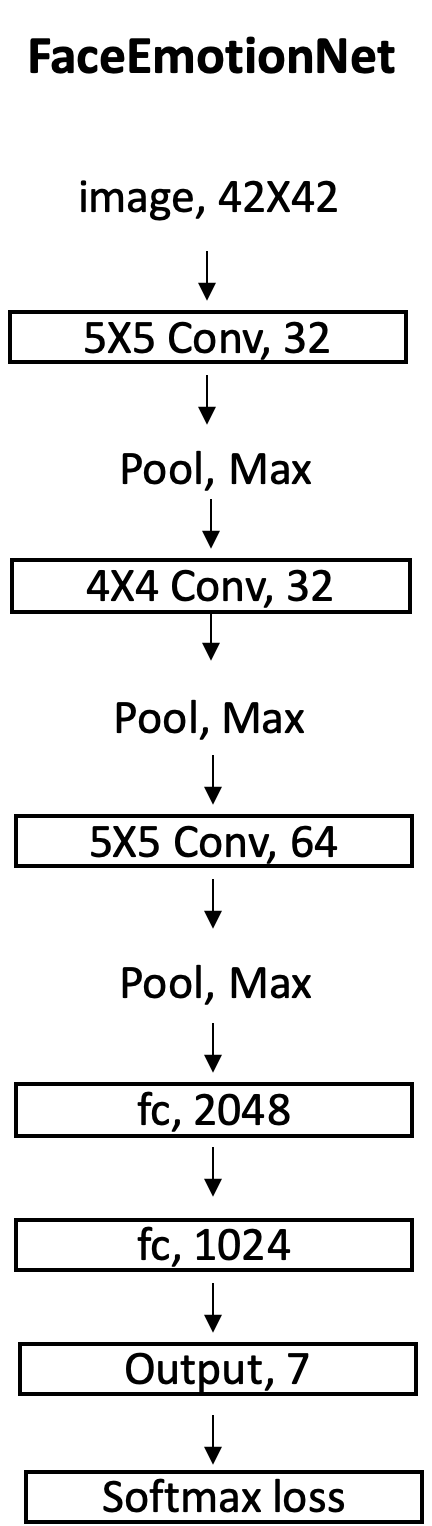
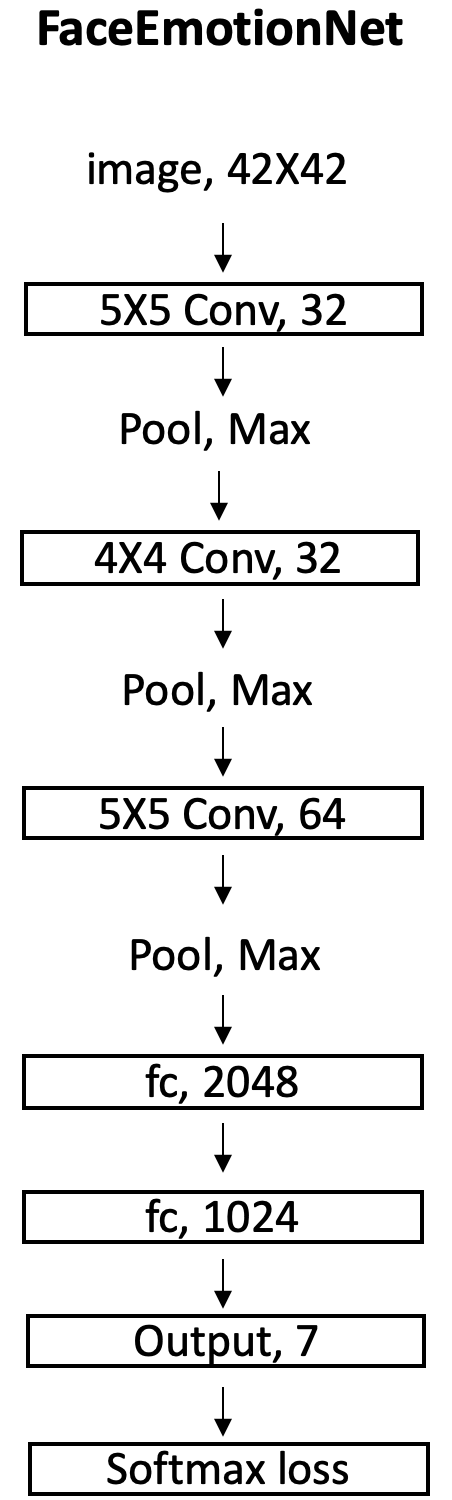
Update README

diff --git a/README.md b/README.md
@@ -57,7 +57,7 @@ Totally **150** epochs training with **0.01** base learning rate and **multi-ste
 Learning rate reduced 10% during **60%** and **85%** training.
 ### CNN Structure
 <div align="center">
-<img src="https://github.com/isthatyoung/Face-emotion-recognition/blob/master/images/figure%206.png" width = "108" height = "381" align=center />
+<img src="https://github.com/isthatyoung/Face-emotion-recognition/blob/master/images/figure%206.png" width = "113" height = "375" align=center />
 </div>  
 
 ### Training loss
